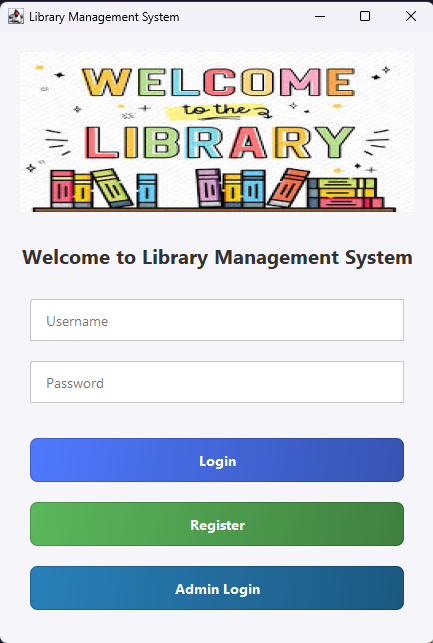
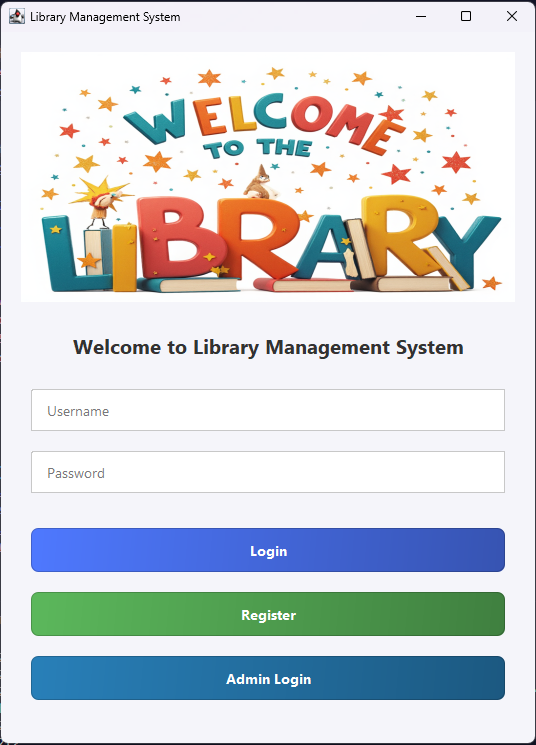
readmeadd

diff --git a/src/LoginUI.java b/src/LoginUI.java
@@ -58,7 +58,7 @@ public class LoginUI extends JFrame {
     this.library = library;
 
     setTitle("Library Management System");
-    setSize(450, 650);
+    setSize(550, 750);
     setDefaultCloseOperation(JFrame.EXIT_ON_CLOSE);
     setLocationRelativeTo(null);
     setLayout(new BorderLayout(0, 20));
@@ -71,8 +71,8 @@ public class LoginUI extends JFrame {
     headerPanel.setBorder(BorderFactory.createEmptyBorder(20, 20, 0, 20));
 
     // Logo
-    ImageIcon originalIcon = new ImageIcon("image/1.jpg");
-    Image scaledImage = originalIcon.getImage().getScaledInstance(400, 160
+    ImageIcon originalIcon = new ImageIcon("image/1.png");
+    Image scaledImage = originalIcon.getImage().getScaledInstance(500, 250
                                                                   , Image.SCALE_SMOOTH);
     JLabel logoLabel = new JLabel(new ImageIcon(scaledImage));
     logoLabel.setHorizontalAlignment(JLabel.CENTER);

diff --git a/README.md b/README.md
@@ -63,7 +63,7 @@ A **beautiful** and **easy-to-use** Management Tool
 
 ### Trang Đăng Nhập
 
-<img align="right" src="/image/redm/loginUI.png" alt="Login GUI" width="45%">
+<img align="right" src="/image/redm/loginUI.png" alt="Login GUI" width="60%">
 
 - Giao diện **hiện đại**, **tối giản**.
 - Hỗ trợ nhiều loại tài khoản (User, Admin).
@@ -74,7 +74,7 @@ A **beautiful** and **easy-to-use** Management Tool
 
 ### Trang Người Dùng
 
-<img align="left" src="/image/redm/userUI.png" alt="User Page" width="45%">
+<img align="right" src="/image/redm/userUI.png" alt="User Page" width="60%">
 
 - **Trực quan** và **dễ sử dụng**.
 - Cung cấp thông tin tổng quan về hệ thống.
@@ -85,7 +85,7 @@ A **beautiful** and **easy-to-use** Management Tool
 
 ### Trang Quản Lý
 
-<img align="right" src="/image/redm/adminUI.png" alt="Management Page" width="45%">
+<img align="right" src="/image/redm/adminUI.png" alt="Management Page" width="60%">
 
 - Tối giản với các tính năng hỗ trợ:
   - Tìm Kiếm
